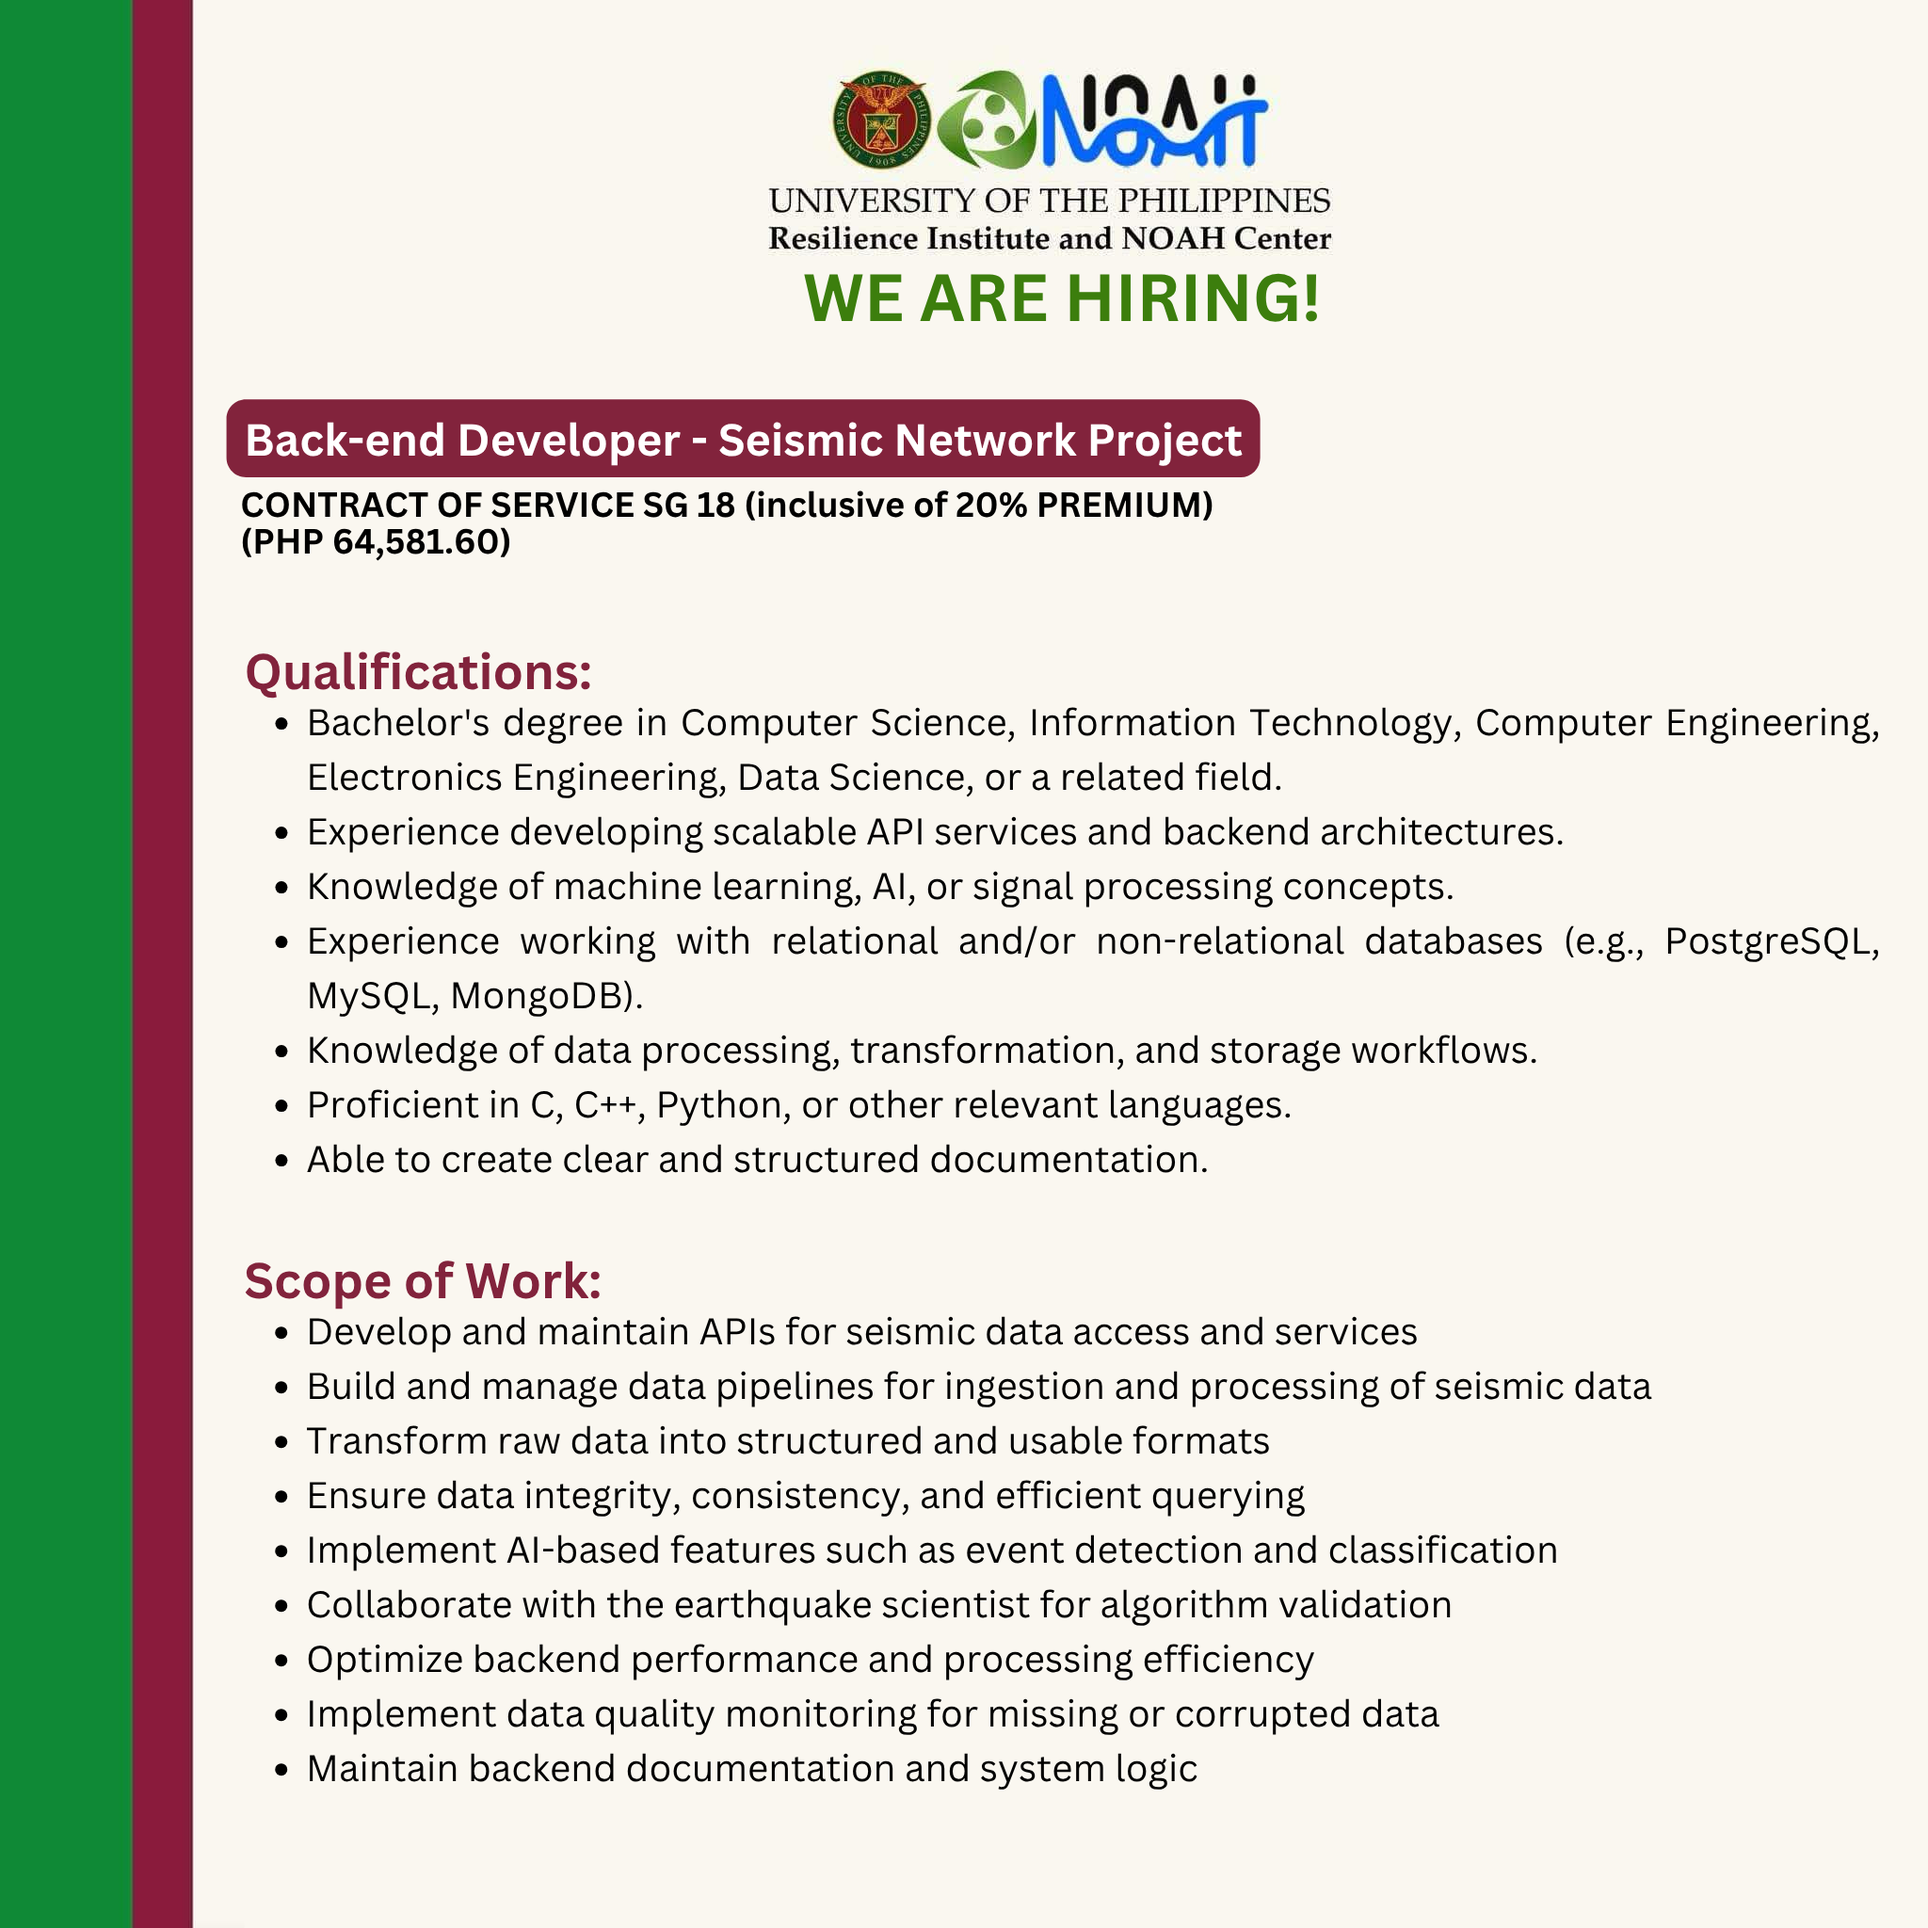
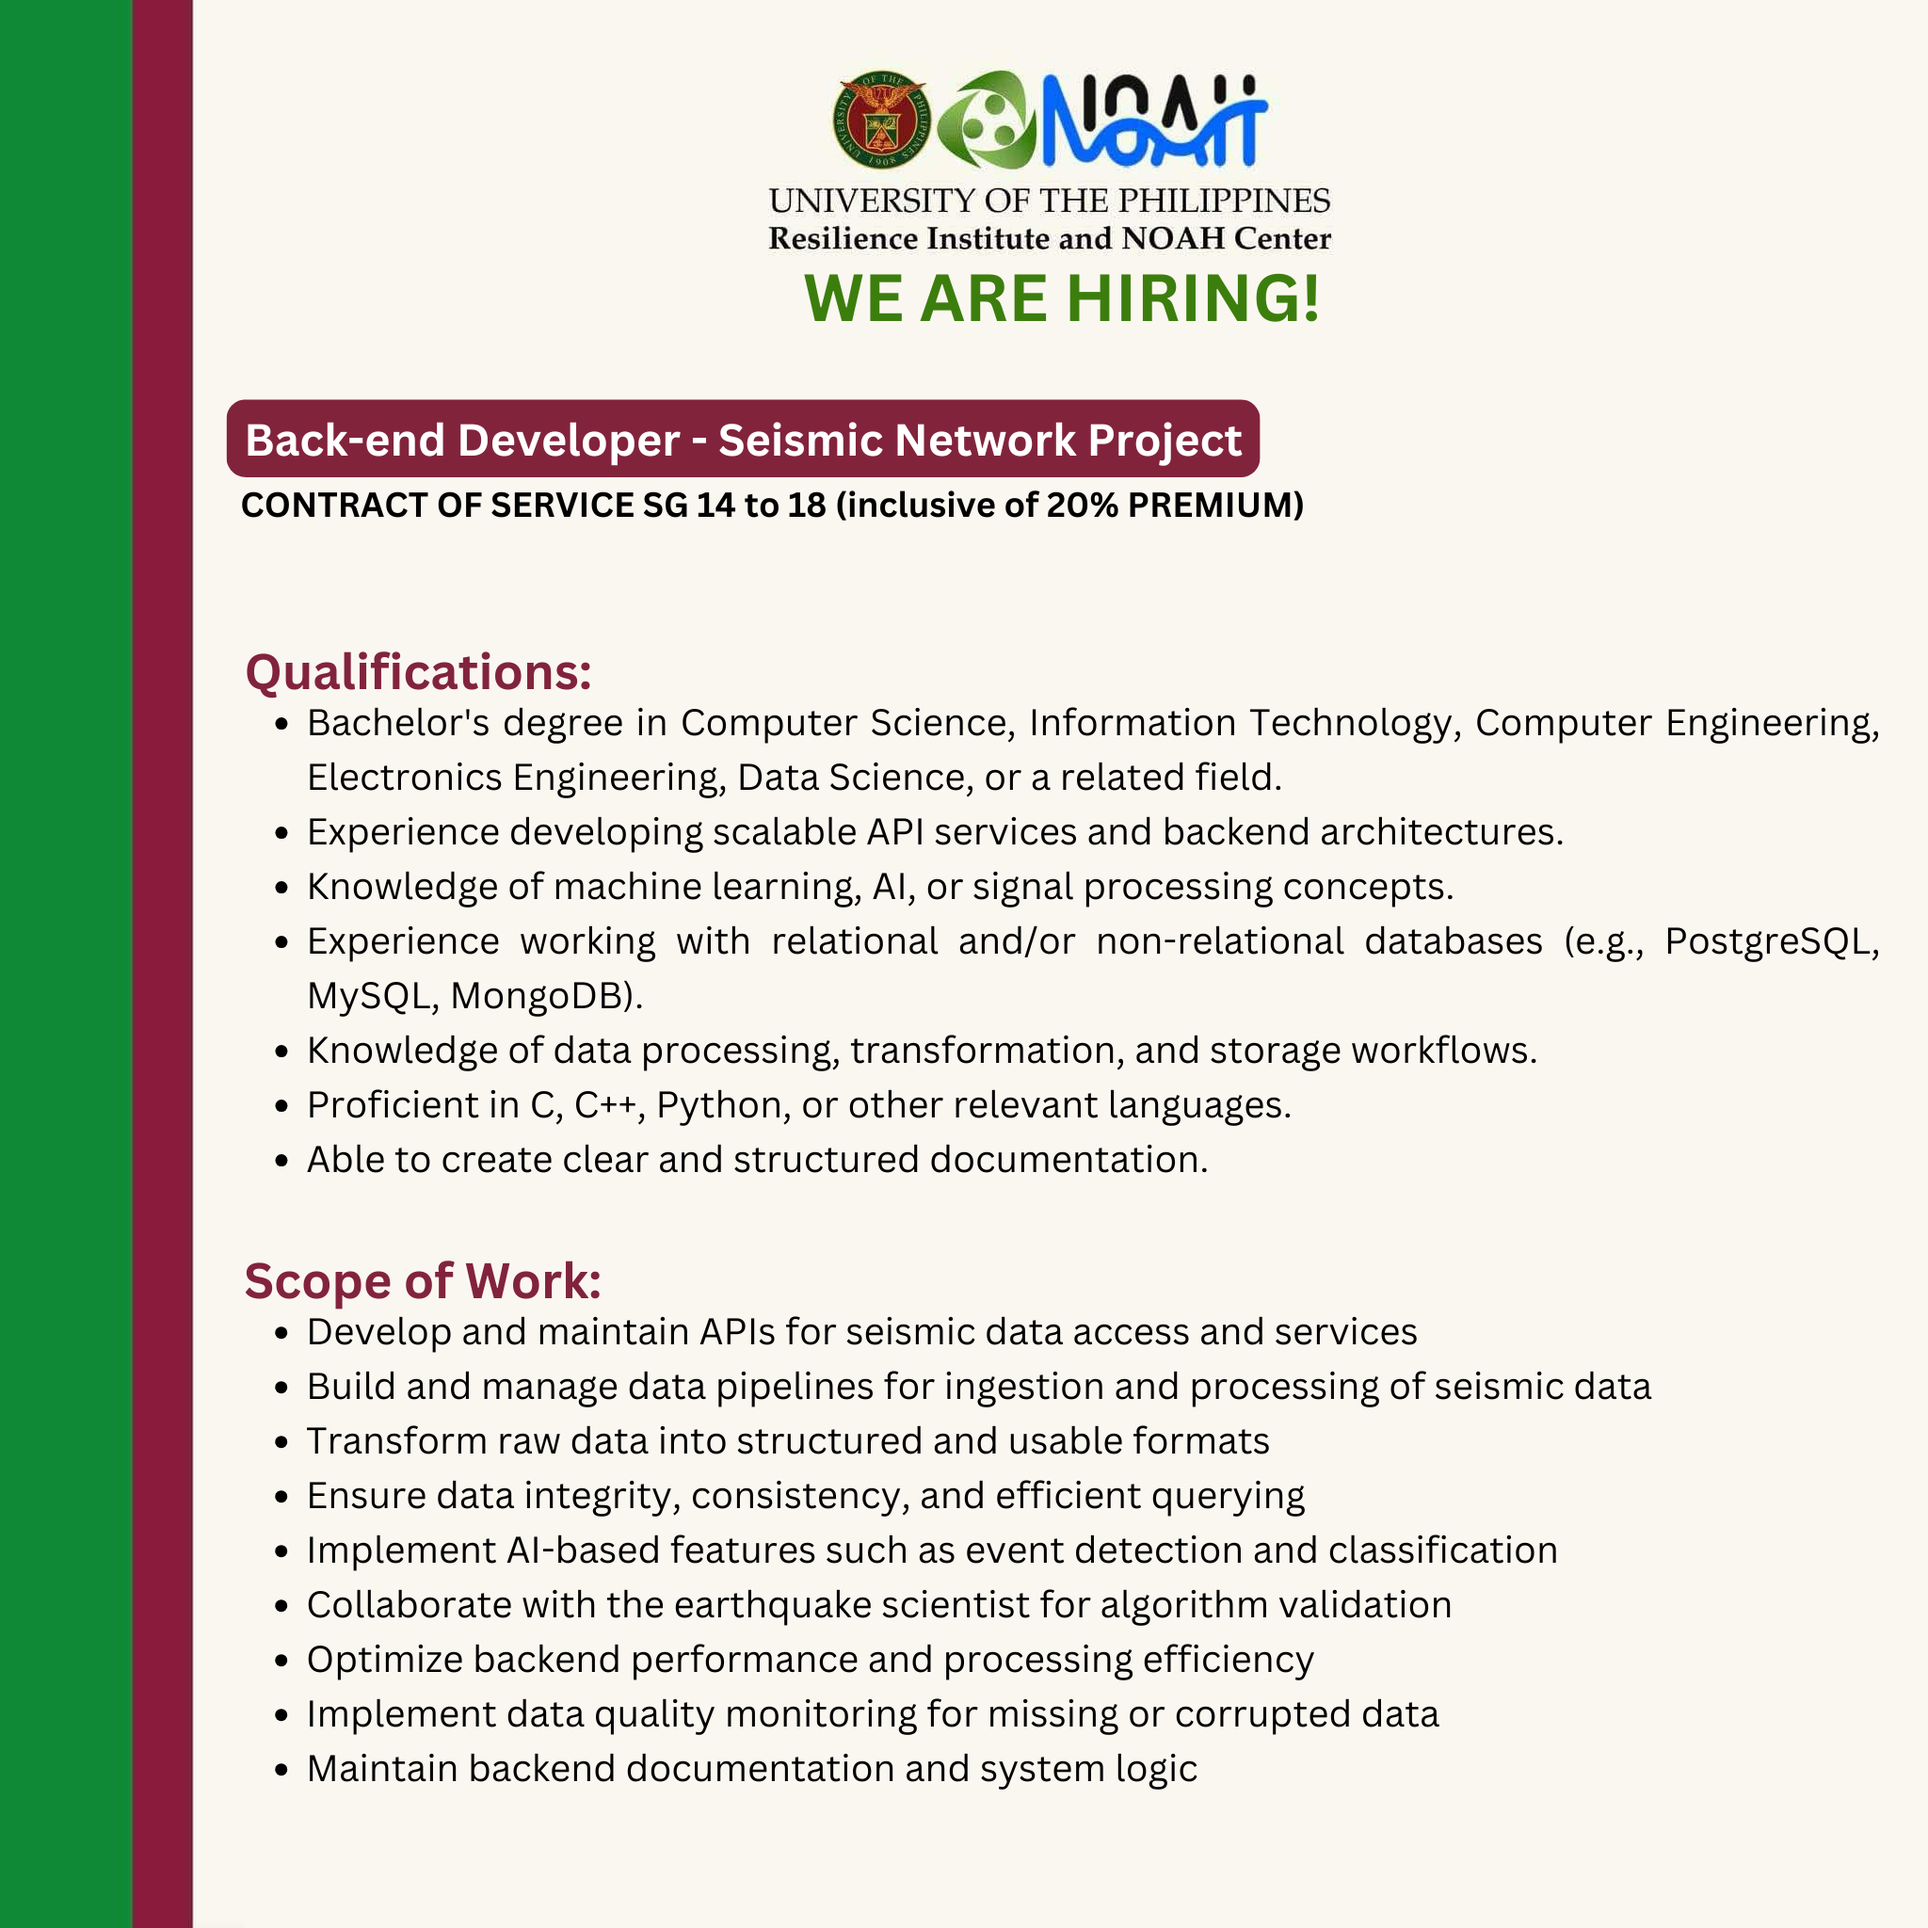
Update opportunity images and remove obsolete positions from the listings

Changed region(s): [[0.375, 0.25, 0.6875, 0.2812], [0.125, 0.25, 0.25, 0.3125]]

diff --git a/src/data/opportunities.js b/src/data/opportunities.js
@@ -4,14 +4,9 @@ import embeddedSystemsDeveloperShakeTable2026 from "../assets/opportunities/embe
 import mechanicalEngineerShakeTable2026 from "../assets/opportunities/mechanical-engineer-shake-table-2026.png"
 import backEndDeveloperSeismicNetwork2026 from "../assets/opportunities/back-end-developer-seismic-network-2026.png"
 import frontEndDeveloperSeismicNetwork2026 from "../assets/opportunities/front-end-developer-seismic-network-2026.png"
-import serverEngineerSeismicNetwork2026 from "../assets/opportunities/server-engineer-seismic-network-2026.png"
 import uiUxDesignerSeismicNetwork2026 from "../assets/opportunities/ui-ux-designer-seismic-network-2026.png"
 import humanResourceManagementHeadPublicRelations2026 from "../assets/opportunities/human-resource-management-head-public-relations-2026.png"
 import scienceCommunicatorPublicRelations2026 from "../assets/opportunities/science-communicator-public-relations-2026.png"
-import projectCoordinatorQuakeQuest2026 from "../assets/opportunities/project-coordinator-quake-quest-2026.png"
-import communicationsCommitteeHeadQuakeQuest2026 from "../assets/opportunities/communications-committee-head-quake-quest-2026.png"
-import creativesCommitteeHeadQuakeQuest2026 from "../assets/opportunities/creatives-committee-head-quake-quest-2026.png"
-import logisticsCommitteeHeadQuakeQuest2026 from "../assets/opportunities/logistics-committee-head-quake-quest-2026.png"
 
 const APPLICATION_FORM_URL = "https://forms.gle/bV8pYXb3PL97TTqQ8"
 
@@ -83,8 +78,8 @@ export const opportunities = [
     id: "back-end-developer-seismic-network-2026",
     title: "Back-end Developer",
     project: "Seismic Network Project",
-    employmentType: "Contract of Service SG 18",
-    compensation: "PHP 64,581.60",
+    employmentType: "Contract of Service SG 14–18",
+    compensation: "Up to PHP 64,581.60",
     summary:
       "Contract of Service role for the Seismic Network Project focused on APIs, data pipelines, and backend services.",
     materialSrc: backEndDeveloperSeismicNetwork2026,
@@ -93,28 +88,18 @@ export const opportunities = [
     id: "front-end-developer-seismic-network-2026",
     title: "Front-end Developer",
     project: "Seismic Network Project",
-    employmentType: "Contract of Service SG 18",
-    compensation: "PHP 64,581.60",
+    employmentType: "Contract of Service SG 14–18",
+    compensation: "Up to PHP 64,581.60",
     summary:
       "Contract of Service role for the Seismic Network Project focused on dashboards, visualization tools, and user interfaces.",
     materialSrc: frontEndDeveloperSeismicNetwork2026,
   }),
   createOpportunity({
-    id: "server-engineer-seismic-network-2026",
-    title: "Server Engineer",
-    project: "Seismic Network Project",
-    employmentType: "Contract of Service SG 18",
-    compensation: "PHP 64,581.60",
-    summary:
-      "Contract of Service role for the Seismic Network Project focused on servers, infrastructure, deployment, and system reliability.",
-    materialSrc: serverEngineerSeismicNetwork2026,
-  }),
-  createOpportunity({
     id: "ui-ux-designer-seismic-network-2026",
     title: "UI/UX Designer",
     project: "Seismic Network Project",
-    employmentType: "Contract of Service SG 18",
-    compensation: "PHP 64,581.60",
+    employmentType: "Contract of Service SG 14–18",
+    compensation: "Up to PHP 64,581.60",
     summary:
       "Contract of Service role for the Seismic Network Project focused on user-centered interfaces, prototypes, and data usability.",
     materialSrc: uiUxDesignerSeismicNetwork2026,
@@ -138,45 +123,5 @@ export const opportunities = [
     summary:
       "Contract of Service role for Public Relations focused on people coordination, documentation, and team support.",
     materialSrc: humanResourceManagementHeadPublicRelations2026,
-  }),
-  createOpportunity({
-    id: "project-coordinator-quake-quest-2026",
-    title: "Project Coordinator",
-    project: "Quake Quest Project",
-    employmentType: "Contract of Service SG 11",
-    compensation: "PHP 38,046.00",
-    summary:
-      "Contract of Service role for the Quake Quest Project focused on project planning, team coordination, and competition delivery.",
-    materialSrc: projectCoordinatorQuakeQuest2026,
-  }),
-  createOpportunity({
-    id: "communications-committee-head-quake-quest-2026",
-    title: "Communications Committee Head",
-    project: "Quake Quest Project",
-    employmentType: "Contract of Service SG 10",
-    compensation: "PHP 32,300.40",
-    summary:
-      "Contract of Service role for the Quake Quest Project focused on participant communications, partnerships, and promotions.",
-    materialSrc: communicationsCommitteeHeadQuakeQuest2026,
-  }),
-  createOpportunity({
-    id: "creatives-committee-head-quake-quest-2026",
-    title: "Creatives Committee Head",
-    project: "Quake Quest Project",
-    employmentType: "Contract of Service SG 10",
-    compensation: "PHP 32,300.40",
-    summary:
-      "Contract of Service role for the Quake Quest Project focused on creative direction, visual materials, and campaign assets.",
-    materialSrc: creativesCommitteeHeadQuakeQuest2026,
-  }),
-  createOpportunity({
-    id: "logistics-committee-head-quake-quest-2026",
-    title: "Logistics Committee Head",
-    project: "Quake Quest Project",
-    employmentType: "Contract of Service SG 10",
-    compensation: "PHP 32,300.40",
-    summary:
-      "Contract of Service role for the Quake Quest Project focused on event logistics, registration, operations, and participant support.",
-    materialSrc: logisticsCommitteeHeadQuakeQuest2026,
   }),
 ]
